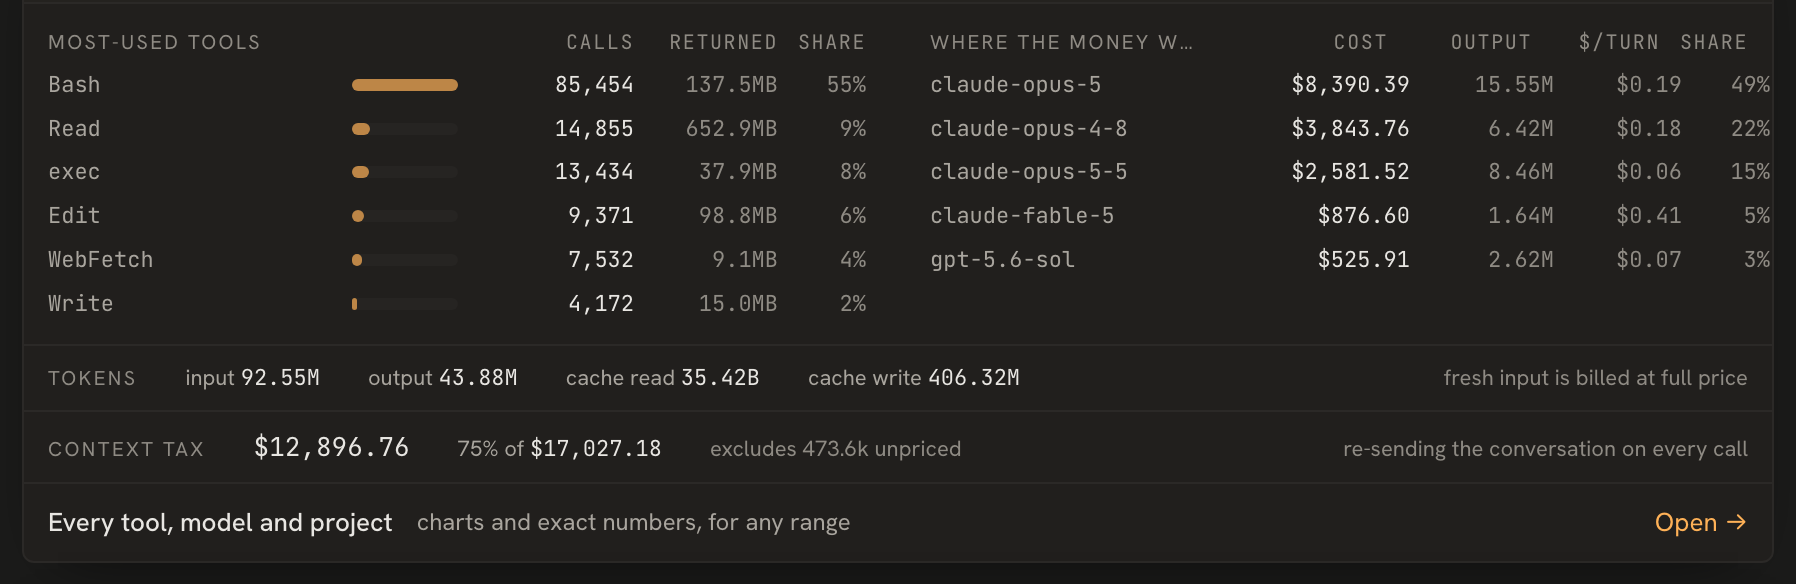
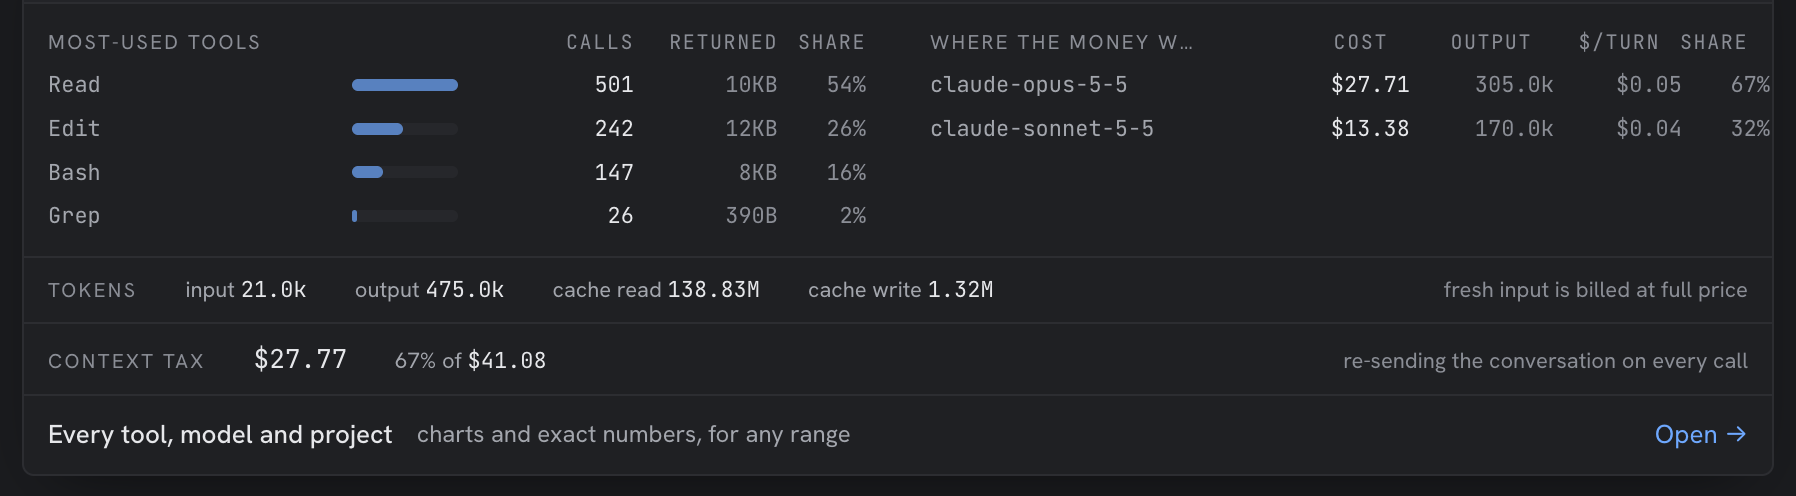
docs(shots): README and docs screenshots in Dark Cold (#505)
* docs(shots): Dark Cold and Light Cold, the palettes caprock.dev shows

The README hero and docs/app.md's shot-app retaken on the site's demo stand
(caprock-web scripts/demo/app.sh) in Dark Cold and Light Cold. shots.py and
feature-shots.py now set those palettes instead of Dark Warm and Book, and
feature-shots.py answers the week's share prompt, which landed over the
Tools panel. The release badge takes the blue accent.

* docs(shots): dashboard and feature shots in Dark Cold and Light Cold

shot-now, shot-cost and shot-tasks retaken by refresh-shots.sh against a
scrubbed copy of a real database on 0.111.2, in the palettes caprock.dev
shows. The feature crops (feat-*) come from the site's demo stand, where
they were retaken in the same palettes; nothing in the docs links them.

shot-history keeps the 0.111.0 capture: on 0.111.2 the Lifetime screen
draws the Top projects donut over its table at 1600px, the same in every
take, so it is not one to publish.

shots.py refused the Now screen whenever a session had just started: its
live-pulse row reads $0.00 on a line of its own, and unlike the session
cards the pulse rows carry no data-session-figures mark. Those rows are now
left out of the still-loading check.

diff --git a/scripts/shots.py b/scripts/shots.py
@@ -486,9 +486,9 @@ def main():
                 # boots. Clicking the header's theme button used to cycle light
                 # and dark; since 0.108.0 it opens a seven-palette menu, so the
                 # click opened the menu and the light pass never turned light.
-                # Dark Warm and Book are what each side shows on a fresh
-                # install (DEFAULT_DARK and DEFAULT_LIGHT in ui/src/lib/themes.ts).
-                mode = "book" if theme == "light" else "dark-warm"
+                # Dark Cold and Light Cold, the palettes caprock.dev shows
+                # (owner, 2026-10-12), so the docs and the site match.
+                mode = "light-cold" if theme == "light" else "dark-cold"
                 evaluate(ws, "try { localStorage.setItem('caprock-theme-mode', '%s');"
                              " localStorage.setItem('caprock-theme', '%s') } catch (e) {}" % (mode, theme))
                 # Navigating to the same document with a different hash does
@@ -532,6 +532,10 @@ def main():
                         // not a total still loading, so they are left out.
                         let t = document.body.innerText;
                         for (const el of document.querySelectorAll('[data-session-figures]')) t = t.replace(el.innerText, '');
+                        // The live pulse's rows carry no such mark: a row is
+                        // the session's short id and state, then its cost on
+                        // a line of its own, $0.00 for one just started.
+                        t = t.replace(/^[0-9a-f]{8} · .*\\n\\$0\\.00\\s*$/gm, '');
                         if (document.querySelector('.skeleton-pulse')) return false;
                         if (t.includes('reading your figures')) return false;
                         if (t.includes('nothing measured')) return false;
@@ -551,6 +555,7 @@ def main():
                       (() => {
                         let t = document.body.innerText;
                         for (const el of document.querySelectorAll('[data-session-figures]')) t = t.replace(el.innerText, '');
+                        t = t.replace(/^[0-9a-f]{8} · .*\n\$0\.00\s*$/gm, '');
                         const z = t.search(/^\$0\.00\s*$/m);
                         return JSON.stringify({
                           skeletons: document.querySelectorAll('.skeleton-pulse').length,

diff --git a/scripts/feature-shots.py b/scripts/feature-shots.py
@@ -194,7 +194,7 @@ BANNERS = """
     localStorage.setItem('caprock.update.dismissed', 'offer');
     const t = Date.now();
     localStorage.setItem('caprock-prompts', JSON.stringify({
-      'premium-banner': t, 'premium-hint': t, 'share-month': t,
+      'premium-banner': t, 'premium-hint': t, 'share-month': t, 'share-week': t,
     }));
   } catch (e) {}
 """
@@ -275,10 +275,14 @@ def shoot(ws, spec, theme):
         rpc(ws, "Page.navigate", {"url": f"{BASE}/#/{route}"})
         time.sleep(0.8)
         evaluate(ws, BANNERS)
-        evaluate(ws, "localStorage.setItem('caprock-theme','%s');"
+        # Dark Cold and Light Cold, the palettes caprock.dev shows (owner,
+        # 2026-10-12); the side alone would load Dark Warm or Book.
+        mode = "light-cold" if theme == "light" else "dark-cold"
+        evaluate(ws, "localStorage.setItem('caprock-theme-mode','%s');"
+                     "localStorage.setItem('caprock-theme','%s');"
                      "localStorage.setItem('caprock-glance-open','1');"
                      "localStorage.setItem('caprock-glance-view','charts');"
-                     "location.reload()" % theme)
+                     "location.reload()" % (mode, theme))
         # Wait for real content: no skeletons, no "reading", the needle there.
         needle = spec.get("needle") or ""
         for _ in range(240):

diff --git a/README.md b/README.md
@@ -9,7 +9,7 @@
 
 *The desktop app and a paired phone, with demo projects and a demo session.*
 
-[![release](https://img.shields.io/github/v/release/dspv/caprock?color=feb157)](https://github.com/dspv/caprock/releases)
+[![release](https://img.shields.io/github/v/release/dspv/caprock?color=6ea8fe)](https://github.com/dspv/caprock/releases)
 [![license](https://img.shields.io/badge/license-Apache--2.0-blue.svg)](LICENSE)
 [![CI](https://github.com/dspv/caprock/actions/workflows/ci.yml/badge.svg)](https://github.com/dspv/caprock/actions/workflows/ci.yml)
 ![platform](https://img.shields.io/badge/macOS%20·%20Linux%20·%20Windows-informational)
